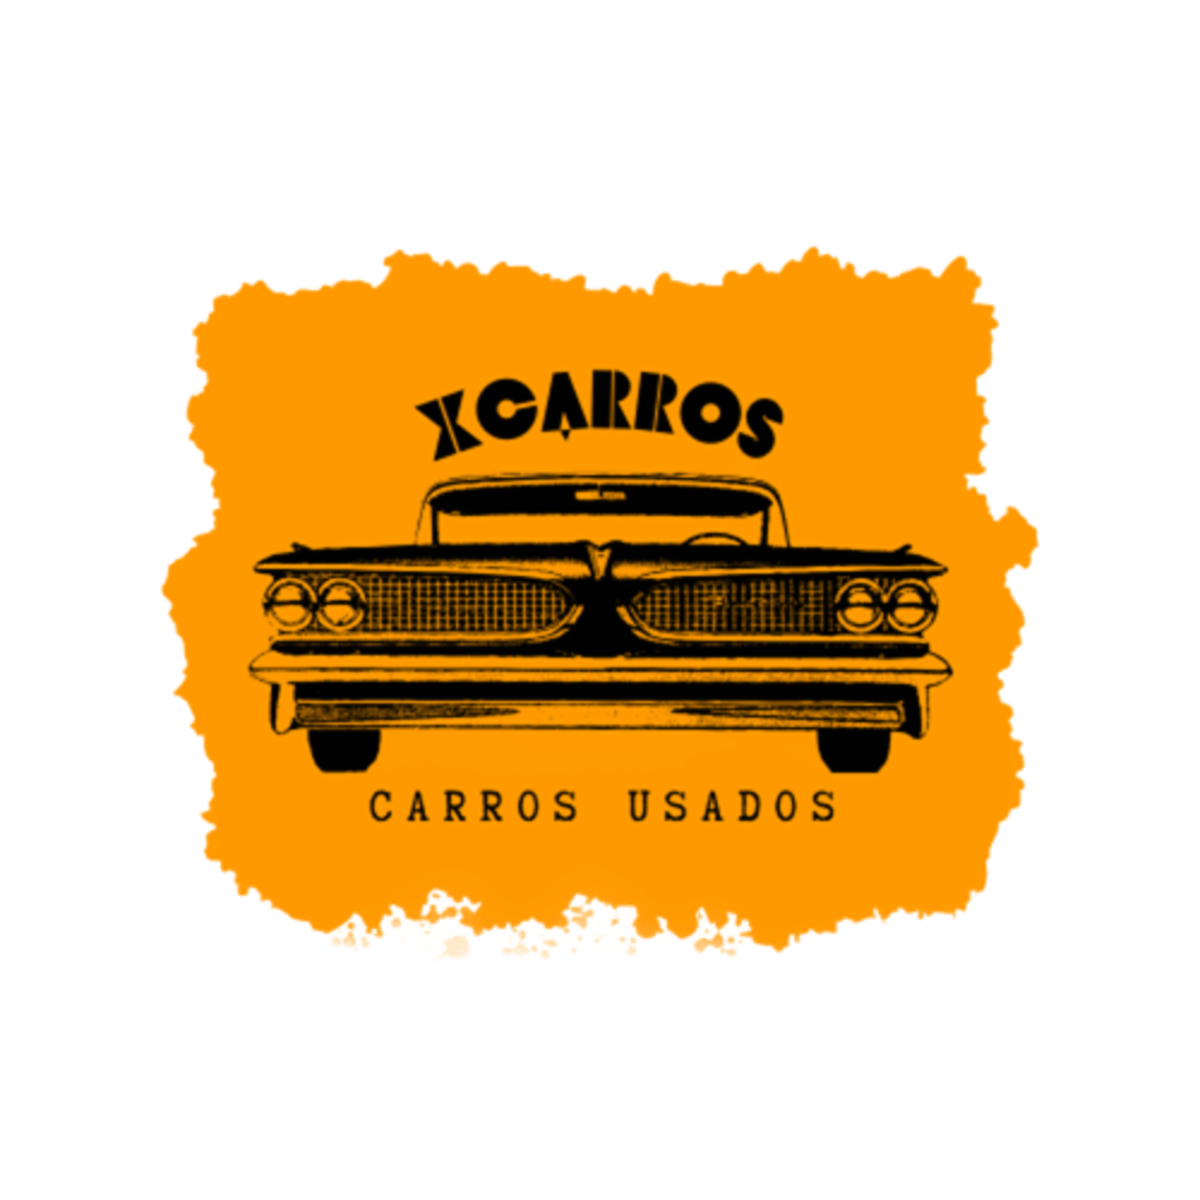
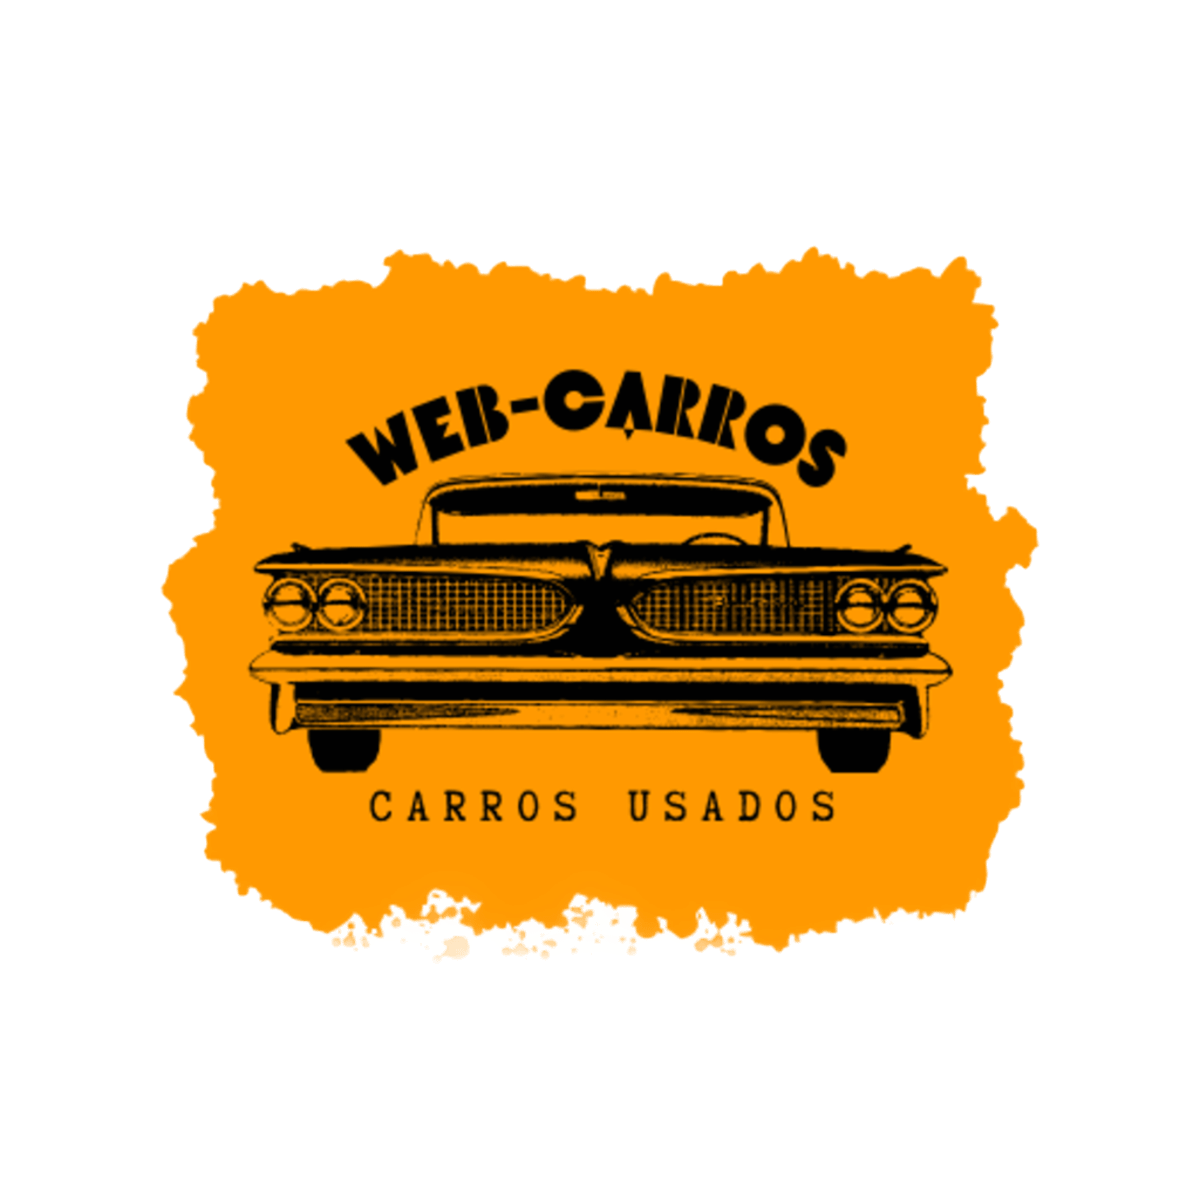
Criado pagina home

Changed region(s): [[0.2775, 0.3083, 0.7092, 0.4008], [0.2775, 0.7708, 0.3083, 0.8017]]

diff --git a/app/frontend/src/pages/Login.tsx b/app/frontend/src/pages/Login.tsx
@@ -1,17 +1,106 @@
-import { Link, useParams } from "react-router-dom";
+import { useState } from "react";
+import { FaLock, FaUser } from "react-icons/fa";
+import { useNavigate } from "react-router-dom";
+import styles from "./Login.module.css";
 
 const Login = () => {
-  const { id } = useParams<{ id: string }>();
+  const navigate = useNavigate();
+  const [email, setEmail] = useState("");
+  const [password, setPassword] = useState("");
+  const [rememberMe, setRememberMe] = useState(false);
+  const [error, setError] = useState("");
+  const [success, setSuccess] = useState("");
+  const [loading, setLoading] = useState(false);
+
+  const handleSubmit = async (e: React.FormEvent) => {
+    e.preventDefault();
+    setLoading(true);
+    setError("");
+    setSuccess("");
+    if (!email || !password) {
+      setError("Preencha todos os campos");
+      setLoading(false);
+      return;
+    }
+    try {
+      const response = await fetch("/api/login", {
+        method: "POST",
+        headers: {
+          "Content-Type": "application/json",
+        },
+        body: JSON.stringify({ email, password, rememberMe }),
+      });
+      const data = await response.json();
+      if (!response.ok) {
+        throw new Error(data.error || "Erro ao fazer login");
+      }
+
+      localStorage.setItem("token", data.token);
+      setSuccess("Login realizado com sucesso!");
+      setEmail("");
+      setPassword("");
+      setLoading(false);
+
+      navigate("/home");
+    } catch (error) {
+      setError(error.message);
+      setLoading(false);
+    }
+  };
 
   return (
-    <div>
-      <h1>Login</h1>
-      <p>Seu ID é: {id}</p>
-      <Link to={`/home/${id}`}>Ir para Home</Link>
+    <div className={styles.login_container}>
+      <form onSubmit={handleSubmit}>
+        {error && <p className={styles.error}>{error}</p>}
+        {success && <p className={styles.success}>{success}</p>}
+        <h2>Digite o seu e-mail e senha</h2>
+        <div className={styles.input_container}>
+          <FaUser className={styles.icon} />
+          <input
+            type="text"
+            placeholder="Email"
+            value={email}
+            onChange={(e) => setEmail(e.target.value)}
+          />
+        </div>
+        <div className={styles.input_container}>
+          <FaLock className={styles.icon} />
+          <input
+            type="password"
+            placeholder="Senha"
+            value={password}
+            onChange={(e) => setPassword(e.target.value)}
+          />
+        </div>
+        <div className={styles.recallForget}>
+          <label className={styles.checkboxLabel}>
+            <input
+              type="checkbox"
+              checked={rememberMe}
+              onChange={() => setRememberMe(!rememberMe)}
+            />
+            Lembrar-me
+          </label>
+          <a href="/forget" className={styles.forgotPassword}>
+            Esqueceu a senha?
+          </a>
+        </div>
+        <button
+          type="submit"
+          className={styles.submitButton}
+          disabled={loading}
+        >
+          {loading ? "Carregando..." : "Entrar"}
+        </button>
+
+        <div className={styles.register}>
+          <p>
+            Não tem uma conta? <a href="/registerUser">Cadastre-se</a>
+          </p>
+        </div>
+      </form>
     </div>
   );
 };
 
 export default Login;
-
-//slr

diff --git a/app/frontend/src/pages/Login.module.css b/app/frontend/src/pages/Login.module.css
@@ -1,0 +1,110 @@
+.login_container {
+  display: flex;
+  justify-content: center;
+  align-items: center;
+  height: 80vh;
+  width: 150vh;
+}
+
+.login_container h2 {
+  color: #0d0d0d;
+  font-size: 2rem;
+  margin-bottom: 20px;
+}
+
+.login_container form {
+  display: flex;
+  flex-direction: column;
+  justify-content: center;
+  align-items: center;
+  background: rgba(255, 255, 255, 0.2);
+  padding: 40px;
+  border-radius: 10px;
+  box-shadow: 0 4px 6px rgba(0, 0, 0, 0.1);
+}
+
+.input_container {
+  position: relative;
+  width: 100%;
+  display: flex;
+  align-items: center;
+}
+
+.input_container input {
+  width: 100%;
+  padding: 10px 40px 10px 15px;
+  margin: 10px 0;
+  border: 1px solid #0d0d0d;
+  border-radius: 5px;
+  font-size: 16px;
+}
+
+.icon {
+  position: absolute;
+  right: 10px;
+  color: #555;
+}
+
+.login_container form input:focus {
+  outline: none;
+  border: 1px solid #ff8e3c;
+}
+
+.login_container form input::placeholder {
+  color: #0d0d0d;
+}
+
+.recallForget {
+  display: flex;
+  justify-content: space-between;
+  align-items: center;
+  width: 100%;
+  margin-top: 10px;
+}
+
+.checkboxLabel {
+  display: flex;
+  align-items: center;
+  gap: 5px;
+}
+
+.forgotPassword {
+  color: #ff8e3c;
+  text-decoration: none;
+  font-size: 14px;
+}
+
+.forgotPassword:hover {
+  text-decoration: underline;
+}
+
+.submitButton {
+  width: 100%;
+  padding: 10px;
+  margin-top: 20px;
+  border: none;
+  border-radius: 5px;
+  background: #ff8e3c;
+  color: white;
+  font-size: 16px;
+  cursor: pointer;
+  transition: 0.3s;
+}
+
+.submitButton:hover {
+  background: #e67e22;
+}
+
+.register {
+  text-align: center;
+  margin-top: 15px;
+}
+
+.register a {
+  color: #ff8e3c;
+  text-decoration: none;
+}
+
+.register a:hover {
+  text-decoration: underline;
+}

diff --git a/app/frontend/index.html b/app/frontend/index.html
@@ -10,7 +10,7 @@
       href="https://fonts.googleapis.com/css2?family=Montserrat:ital,wght@0,100..900;1,100..900&family=Open+Sans:ital,wght@0,300..800;1,300..800&family=Orbitron:wght@400..900&family=Oswald:wght@200..700&family=Roboto+Mono:ital,wght@0,100..700;1,100..700&display=swap"
       rel="stylesheet"
     />
-    <title>XCARROS</title>
+    <title>WEB-CARROS</title>
   </head>
   <body>
     <div id="root"></div>

diff --git a/app/frontend/src/pages/Home.tsx b/app/frontend/src/pages/Home.tsx
@@ -9,7 +9,7 @@ const Home = () => {
   return (
     <section className={styles.home_container}>
       <h1>
-        Bem vindo ao <span>XCARROS</span>
+        Bem vindo ao <span>WEB-CARROS</span>
       </h1>
       <Link to="/">
         <img src={principal} alt="xcarros" />{" "}

diff --git a/app/frontend/src/components/layout/Footer.jsx b/app/frontend/src/components/layout/Footer.jsx
@@ -18,7 +18,7 @@ function Footer() {
         </li>
       </ul>
       <p className={styles.copy_right}>
-        <span>XCARROS</span> &copy; 2025
+        <span>WEB-CARROS</span> &copy; 2025
       </p>
     </footer>
   );
